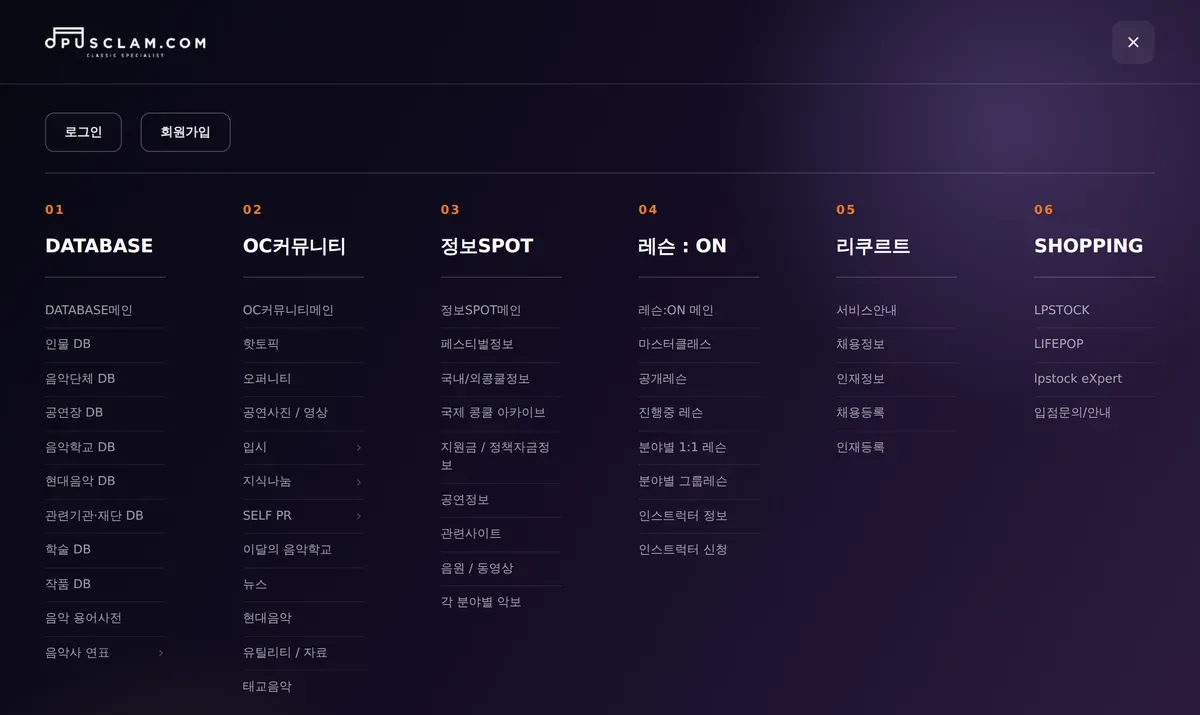
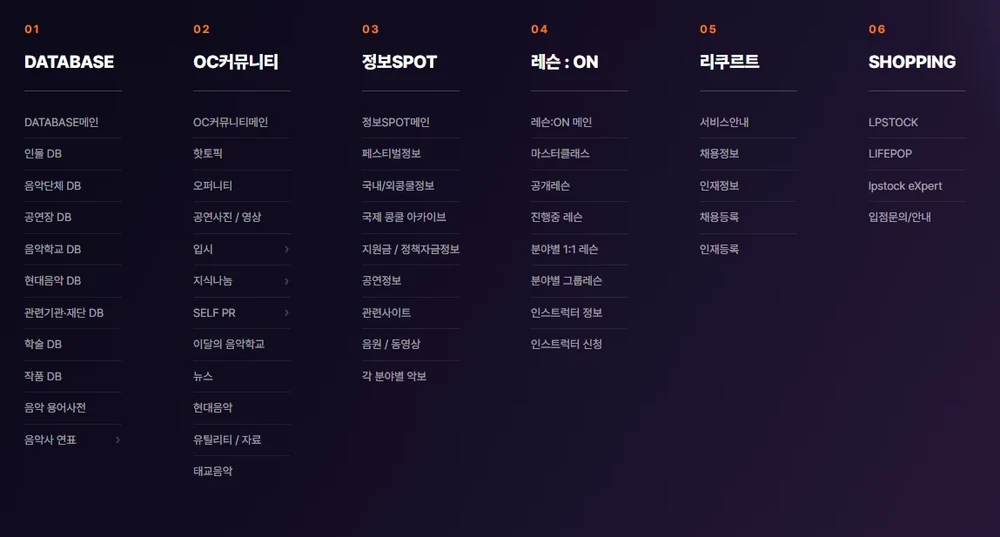
346363

diff --git a/guide.html b/guide.html
@@ -76,16 +76,36 @@
   html[data-theme="dark"] .gd-hero::after{opacity:.35}
 
   /* 몸 — 왼쪽 목차 + 오른쪽 내용 */
+  /* ★ 2026-08-20 · 목차를 236→190, 사이를 52→40 으로 줄였습니다.
+     까닭 — 그림을 1000px 로 맞춰 두었는데, 1280px 화면에서 글 자리가
+     944px 이라 그림이 다시 줄어들어 흐려졌습니다. 목차를 조금 줄이니
+     1280px 에서도 자리가 1002px 이 되어 <b>줄어들지 않습니다.</b>
+     ★ 목차 글씨가 가장 긴 「무엇을 찾을 수 있나요」도 190px 에 들어갑니다. */
   .gd-wrap{max-width:1360px;margin:0 auto;padding:0 24px;
-    display:grid;grid-template-columns:236px 1fr;gap:52px;align-items:start}
+    display:grid;grid-template-columns:190px 1fr;gap:40px;align-items:start}
 
   .gd-toc{position:sticky;top:130px;padding-top:46px}
   .gd-toc h2{font-size:11.5px;font-weight:800;letter-spacing:.16em;color:var(--text-3);
     margin:0 0 12px}
-  .gd-toc a{display:block;font-size:13.5px;line-height:1.5;padding:7px 11px;border-radius:8px;
-    color:var(--text-2);text-decoration:none;transition:background .15s,color .15s}
-  .gd-toc a:hover{background:var(--paper-2);color:var(--text)}
-  .gd-toc a.on{background:var(--paper-2);color:var(--violet-2,#5b4b9e);font-weight:700}
+  /* ★★ 2026-08-20 · 고른 것을 <b>짙은 바탕</b>으로 (파트너 지시) ★★
+     ─────────────────────────────────────────────────────────────────
+     ★ 값을 짐작하지 않았습니다 — 국제 콩쿨 아카이브의 왼쪽 메뉴
+       (spot/concours-archive.html · .ca-nav button.on)에서 <b>그대로</b>
+       가져왔습니다. #322152 · 손 올리면 #3d2a63 · 왼쪽 막대 3px.
+       플랫폼 안에서 같은 자리는 같은 색이어야 합니다.
+     ★ 그때 정한 원칙도 같습니다 — <b>지금 보고 있는 것</b>이 가장
+       또렷하고, 손 올린 것은 「누를 수 있다」는 귀띔이면 됩니다.
+     ★ 어두운 화면에서는 #322152 가 바탕(#0b0b0b)과 잘 갈리므로
+       그대로 씁니다. 글자는 흰색이라 잘 읽힙니다. */
+  .gd-toc a{display:block;font-size:13.5px;line-height:1.5;padding:9px 12px;
+    border-radius:10px;color:var(--text-2);text-decoration:none;font-weight:600;
+    border-left:3px solid transparent;transition:all .15s ease}
+  /* 손 올린 것 — 옅게, 왼쪽에 막대만 */
+  .gd-toc a:hover{background:var(--paper-2);color:var(--violet-2,#5b4b9e);
+    border-left-color:var(--violet-2,#5b4b9e)}
+  /* 고른 것 — 짙은 바탕에 흰 글자 */
+  .gd-toc a.on{background:#322152;color:#fff;border-left-color:#322152;font-weight:700}
+  .gd-toc a.on:hover{background:#3d2a63;color:#fff;border-left-color:#3d2a63}
 
   .gd-body{padding-top:46px;min-width:0}
   .gd-sec{padding:0 0 52px;scroll-margin-top:130px}
@@ -158,9 +178,23 @@
        전에 0px 로 찌그러집니다</b>(lazy 로 늦게 오므로 그동안 자리가 없음).
      ▶ 그래서 <b>상자(figure)에 원래 크기를 한도로</b> 걸고, 그림은 그
        상자를 100% 채웁니다. 늘어나지 않고, 늦게 와도 자리가 지켜집니다.
-       한도값은 그림마다 달라 각 figure 의 style 에 적어 두었습니다. */
+       한도값은 그림마다 달라 각 figure 의 style 에 적어 두었습니다.
+
+     ★★ 2026-08-20 · 그래도 <b>선명하지 않다</b>는 지적을 받았습니다.
+       까닭은 <b>브라우저가 줄이면서 흐려지는 것</b>이었습니다 — 1149px
+       그림을 1022px 자리에 넣으면 89% 로 줄어들고, 그 어중간한 비율에서
+       글자가 뭉갭니다.
+       ▶ 그림을 <b>미리 1000px 아래로 줄여</b> 두었습니다(PIL Lanczos).
+         PC 에서 글이 놓이는 자리가 가장 넓을 때 1022px 이므로, 그보다
+         작으면 브라우저가 <b>손대지 않고 그대로</b> 그립니다 = 원래 크기.
+       ★ 줄이는 일은 브라우저보다 PIL 이 잘합니다. 그래서 미리 줄입니다. */
+  /* ★ 테두리를 <b>box-shadow 로</b> 그립니다 (2026-08-20)
+     border 는 <b>그림 자리를 2px 먹습니다</b>(box-sizing:border-box).
+     그래서 1000px 자리에 넣은 1000px 그림이 998px 로 줄어들어
+     0.2% 다시 그려지고, 그만큼 흐려졌습니다. box-shadow 는 자리를
+     차지하지 않아 <b>정확히 1:1</b> 로 그려집니다. */
   .gd-fig img{display:block;width:100%;height:auto;border-radius:11px;
-    border:1px solid var(--line);background:var(--paper-2)}
+    box-shadow:0 0 0 1px var(--line);background:var(--paper-2)}
   .gd-fig figcaption{font-size:12.5px;line-height:1.7;color:var(--text-3);
     margin-top:8px;padding-left:2px}
   .gd-fig figcaption b{color:var(--text-2)}
@@ -210,8 +244,9 @@
     .gd-pick.open .list{display:block}
     .gd-pick .list a{display:block;padding:11px 13px;border-radius:8px;font-size:14px;
       color:var(--text-2);text-decoration:none}
-    .gd-pick .list a.on{background:var(--paper-2);color:var(--violet-2,#5b4b9e);
-      font-weight:700}
+    /* ★ 풀다운 목록에서도 고른 것은 같은 짙은 바탕으로 — 화면이 좁아도
+       규칙이 달라지면 「다른 것」처럼 느껴집니다. */
+    .gd-pick .list a.on{background:#322152;color:#fff;font-weight:700}
     .gd-sec{scroll-margin-top:calc(var(--gd-top,79px) + 74px)}
   }
   @media (max-width:640px){
@@ -329,8 +364,8 @@
         <p class="gd-lead">위쪽 메뉴 <b>DATABASE</b> 안에 열 갈래가 있어요.
           갈래마다 성격이 달라서, 무엇을 찾을 때 어디로 가면 되는지 적어 둘게요.</p>
 
-        <figure class="gd-fig" style="max-width:1200px">
-          <img src="/assets/guide/menu.webp" width="1200" height="715" loading="lazy"
+        <figure class="gd-fig" style="max-width:1000px">
+          <img src="/assets/guide/menu.webp" width="1000" height="537" loading="lazy"
                alt="전체메뉴를 열면 여섯 갈래가 한 화면에 펼쳐집니다">
           <figcaption>헤더 오른쪽 <b>≡</b> 를 누르면 이렇게 <b>사이트 전체</b>가
             한 화면에 펼쳐져요. 어디에 무엇이 있는지 한눈에 보이니, 길을 잃으면
@@ -581,8 +616,8 @@
         <p class="gd-lead">모두 <b><a href="/account/mypage.html">마이페이지</a></b>
           에서 관리해요. 하나씩 볼게요.</p>
 
-        <figure class="gd-fig" style="max-width:1138px">
-          <img src="/assets/guide/mypage.webp" width="1138" height="643" loading="lazy"
+        <figure class="gd-fig" style="max-width:1000px">
+          <img src="/assets/guide/mypage.webp" width="1000" height="565" loading="lazy"
                alt="마이페이지 대시보드 — 탭 아홉 개와 요약 상자들">
           <figcaption>마이페이지 <b>대시보드</b>예요. 위쪽 탭이 아홉 개 —
             대시보드 · 내 정보 · 활동·등급 · 내가 올린 것 · <b>Linked</b> ·
@@ -596,8 +631,8 @@
         <p><b>즐겨찾기</b>는 「계속 보러 올 것」이에요 — 좋아하는 연주자,
           자주 찾는 작품처럼요. <b>킵</b>은 「나중에 볼 것」이에요 —
           지금은 시간이 없어 잠깐 접어 두는 느낌이죠.</p>
-        <figure class="gd-fig" style="max-width:1200px">
-          <img src="/assets/guide/tools.webp" width="1200" height="49" loading="lazy"
+        <figure class="gd-fig" style="max-width:1000px">
+          <img src="/assets/guide/tools.webp" width="1000" height="41" loading="lazy"
                alt="상세 화면 위쪽의 즐겨찾기·킵·저장·공유 단추와 글자크기 조절">
           <figcaption>상세 화면 <b>위쪽 단추줄</b>이에요. 왼쪽부터 즐겨찾기 ·
             킵 · 저장 · 공유이고, 오른쪽은 <b>글자크기</b>예요. 글씨가 작게
@@ -639,8 +674,8 @@
           생겨요. 누르면 화면 위를 덮는 <b>패널</b>이 열려서, 내 것을 한눈에
           볼 수 있어요.</p>
 
-        <figure class="gd-fig" style="max-width:1200px">
-          <img src="/assets/guide/inner.webp" width="1200" height="735" loading="lazy"
+        <figure class="gd-fig" style="max-width:1000px">
+          <img src="/assets/guide/inner.webp" width="1000" height="612" loading="lazy"
                alt="이너스페이스 패널 — 회원 카드·바로 가기·관심분야 통계·Linked·새 글">
           <figcaption>이너스페이스를 열면 이렇게 <b>내 것이 한 화면에</b>
             펼쳐져요. 회원 카드와 점수 채우는 길, 바로 가기, 관심분야 통계,
@@ -689,8 +724,8 @@
             단추가 생겨요.</li>
         </ol>
 
-        <figure class="gd-fig" style="max-width:1116px">
-          <img src="/assets/guide/linked.webp" width="1116" height="374" loading="lazy"
+        <figure class="gd-fig" style="max-width:1000px">
+          <img src="/assets/guide/linked.webp" width="1000" height="335" loading="lazy"
                alt="마이페이지 Linked 탭 — 아이디로 찾기와 이어진 사람 목록">
           <figcaption>마이페이지 <b>Linked</b> 탭이에요. 위에서 <b>아이디로
             찾아</b> 청하고, 오른쪽 「이어진 사람」에 <b>쪽지</b>와 <b>끊기</b>
@@ -721,8 +756,8 @@
                 <b>전공자 회원은 기본이 「받지 않음」</b>이고, 나머지는
                 받는 것으로 시작해요.</td></tr>
         </table>
-        <figure class="gd-fig" style="max-width:1104px">
-          <img src="/assets/guide/profile-linked.webp" width="1104" height="442"
+        <figure class="gd-fig" style="max-width:1000px">
+          <img src="/assets/guide/profile-linked.webp" width="1000" height="400"
                loading="lazy" alt="회원정보 수정 화면의 Linked · 인맥 칸 두 개">
           <figcaption><b>회원정보 수정</b> 화면을 내리면 이 상자가 있어요.
             칸을 고쳐 화면 맨 아래 <b>「저장」</b>을 누르셔야 지켜져요.
